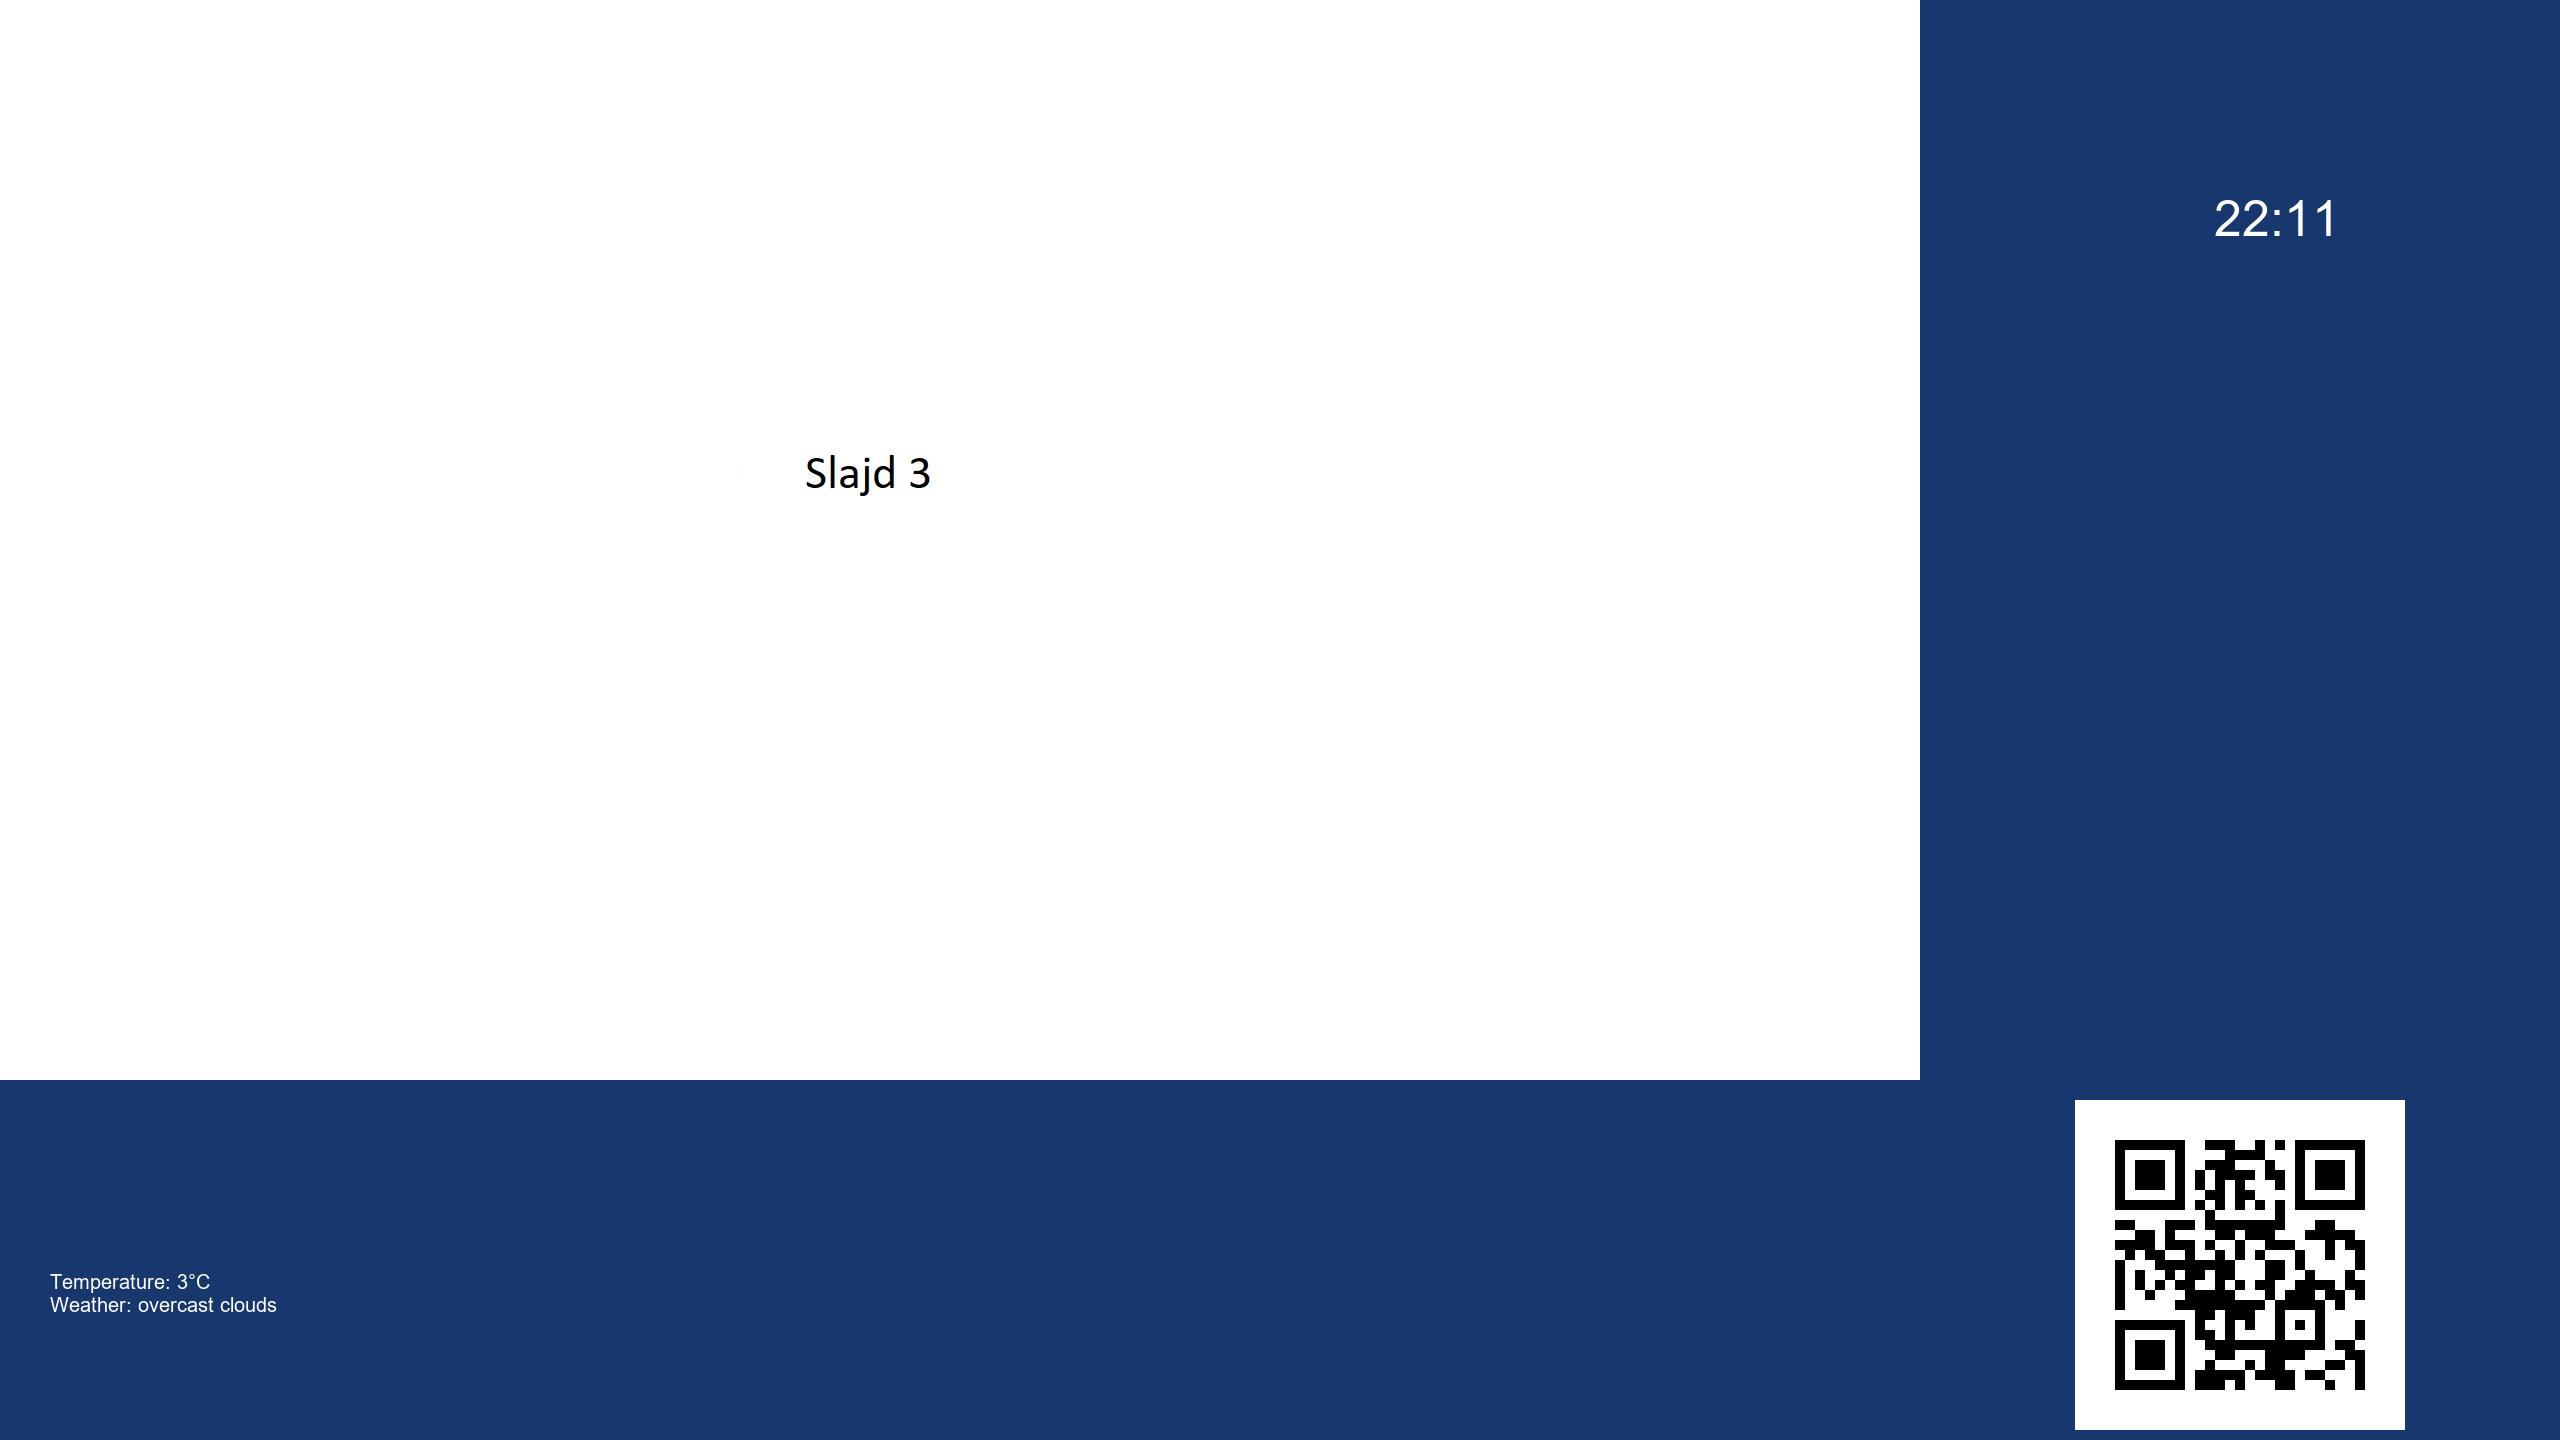
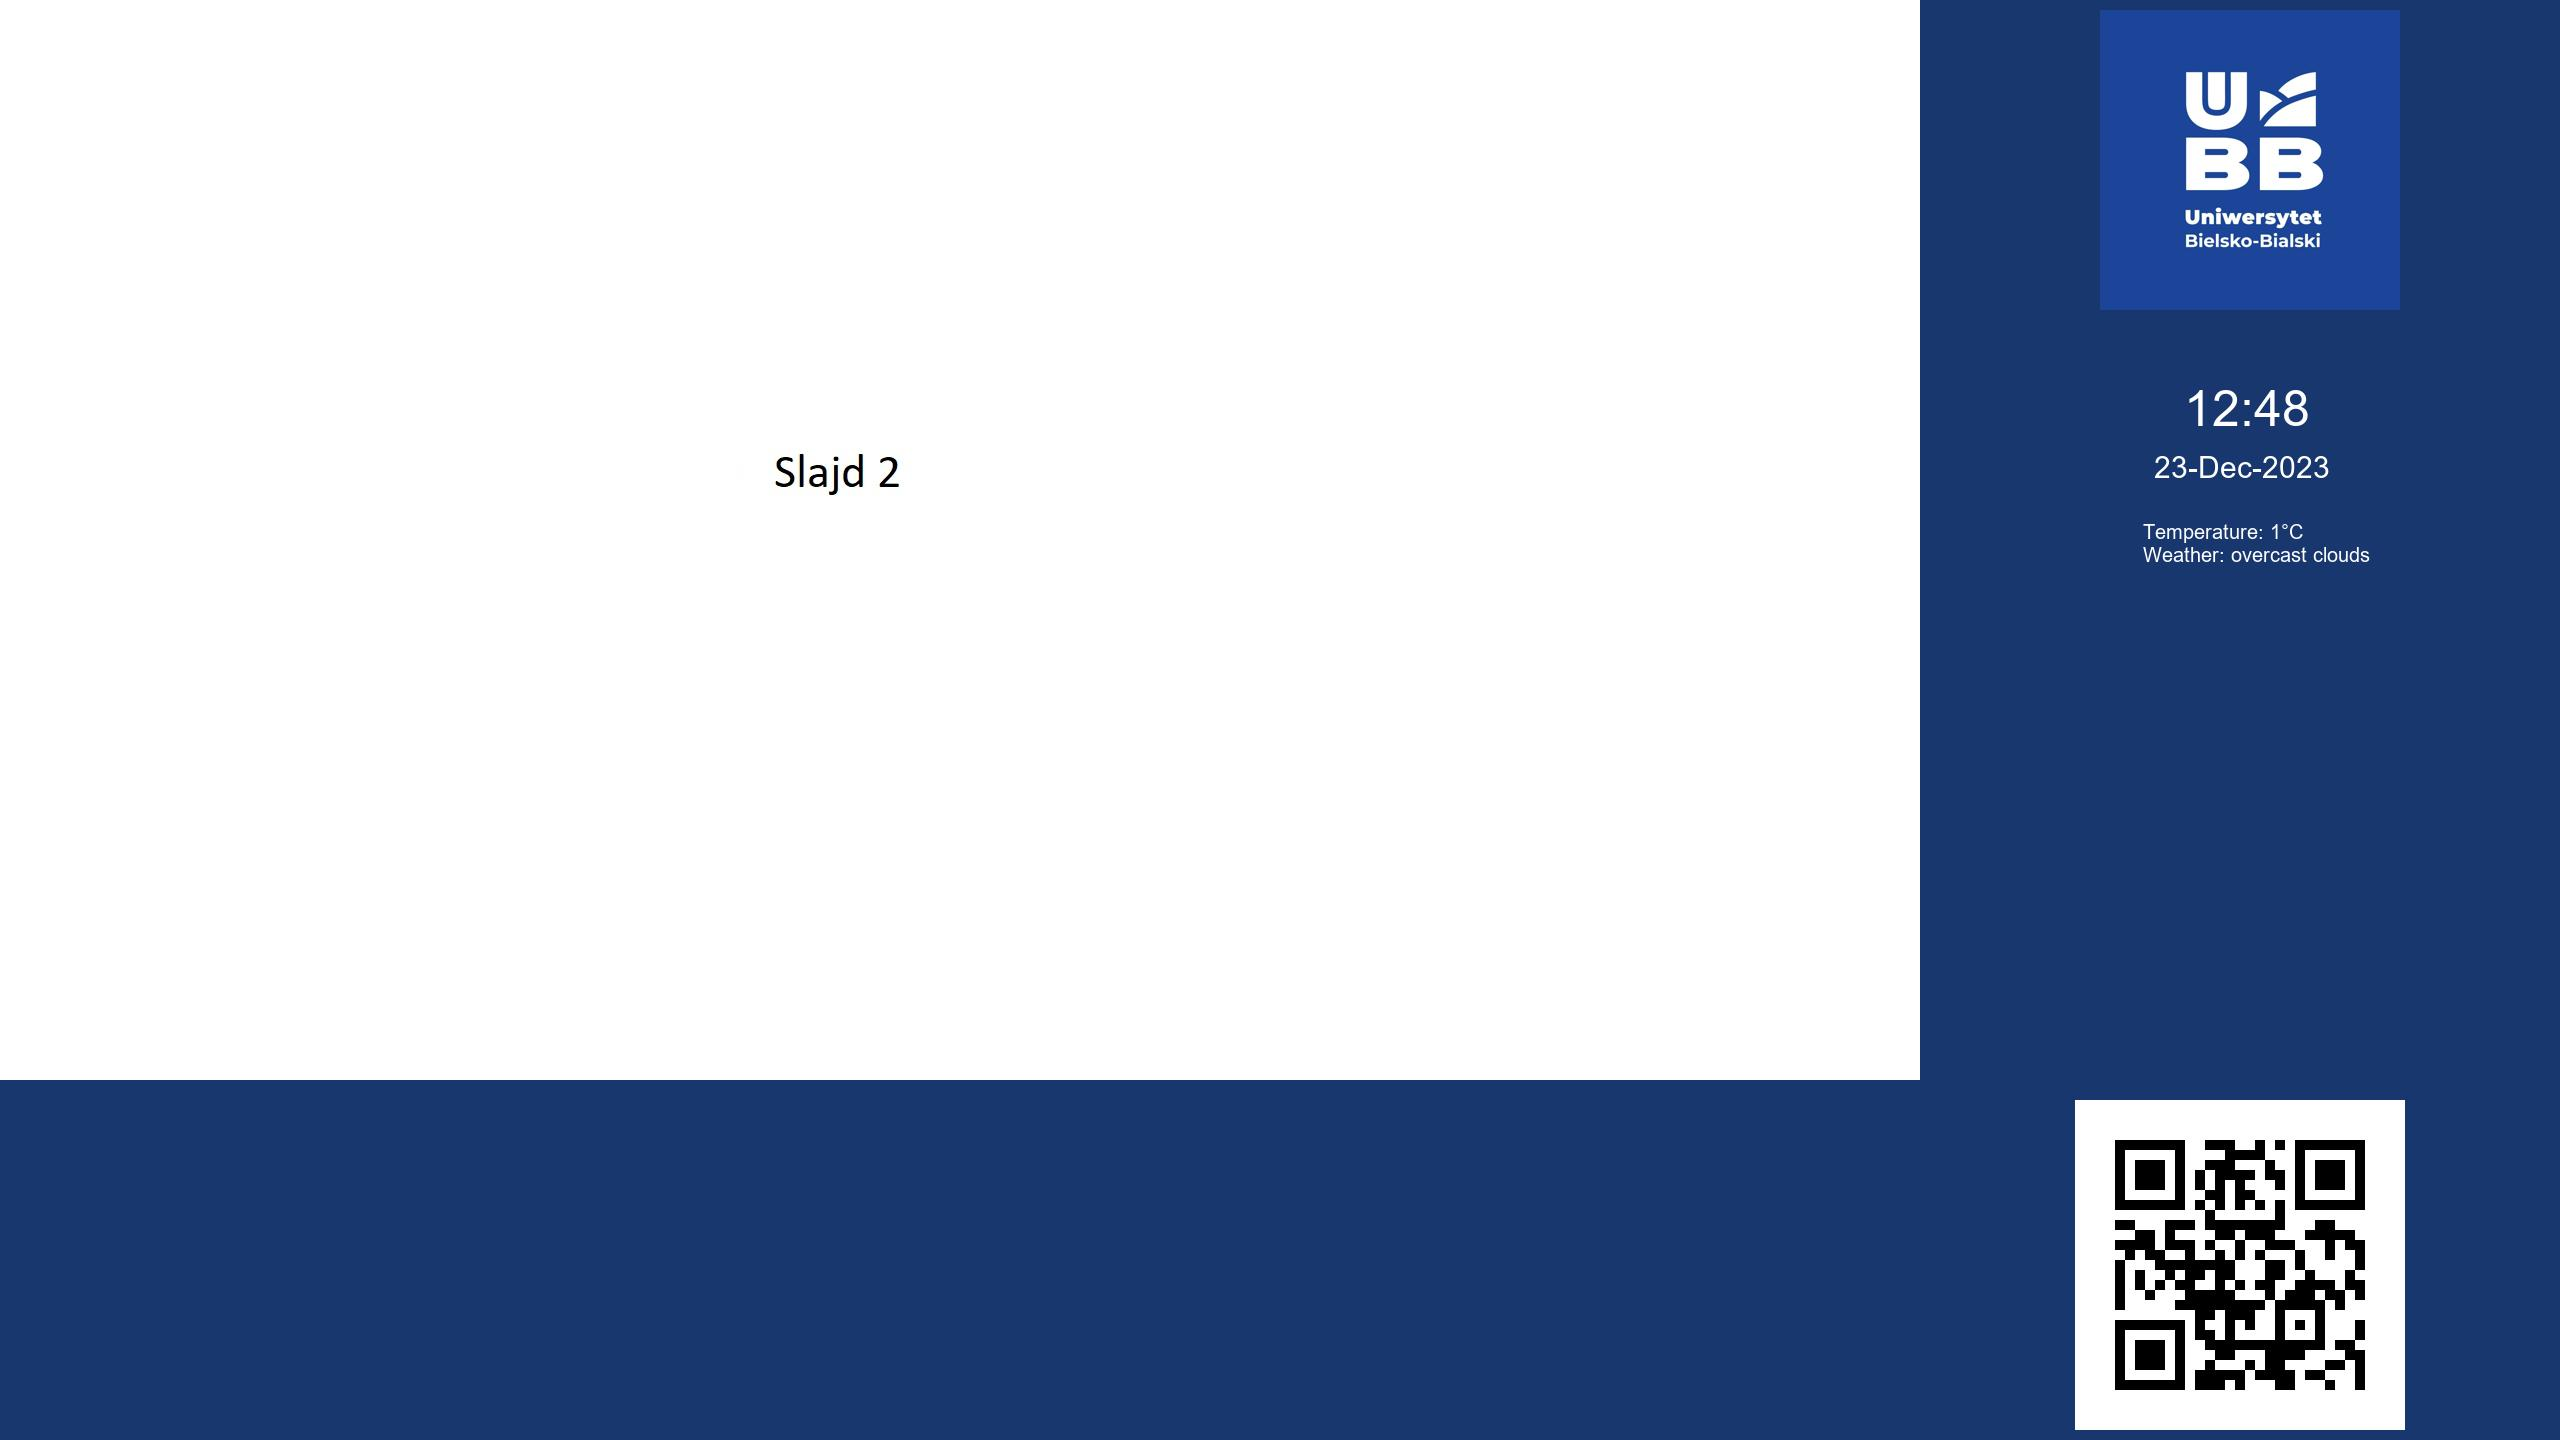
v1.0

diff --git a/project.py b/project.py
@@ -77,15 +77,12 @@ def display_image(file_path):
     draw.rectangle([(0, image.height), (screen.get_width(), screen.get_height())], fill=border_color)
 
     # Weather information from OpenWeatherMap API
-    weather_data = get_weather_data()
-    font = ImageFont.load_default()
-
-    # Font size
+    weather_text = get_weather_data()
     font_size = 20
     font = ImageFont.truetype("arial.ttf", font_size)
-
-    # Weather information
-    draw.text((50, image.height + border_height + 10), weather_data, font=font, fill="white")
+    weather_text_bbox = draw.textbbox((0, 0), weather_text, font=font)
+    weather_text_width, weather_text_height = weather_text_bbox[2] - weather_text_bbox[0], weather_text_bbox[3] - weather_text_bbox[1]
+    draw.text((screen.get_width() - weather_text_width - 190, border_height + 340), weather_text, font=font, fill="white")
 
     # Time display
     current_time = datetime.now().strftime("%H:%M")
@@ -93,7 +90,21 @@ def display_image(file_path):
     time_font = ImageFont.truetype("arial.ttf", time_font_size)
     text_bbox = draw.textbbox((0, 0), current_time, font=time_font)
     text_width, text_height = text_bbox[2] - text_bbox[0], text_bbox[3] - text_bbox[1]
-    draw.text((screen.get_width() - text_width - 220, border_height + 10), current_time, font=time_font, fill="white")
+    draw.text((screen.get_width() - text_width - 250, border_height + 200), current_time, font=time_font, fill="white")
+
+    # Date display
+    current_date = datetime.now().strftime("%d-%b-%Y")
+    date_font_size = 30
+    date_font = ImageFont.truetype("arial.ttf", date_font_size)
+    date_text_bbox = draw.textbbox((0, 0), current_date, font=date_font)
+    date_text_width, date_text_height = date_text_bbox[2] - date_text_bbox[0], date_text_bbox[3] - date_text_bbox[1]
+    draw.text((screen.get_width() - date_text_width - 230, border_height + 270), current_date, font=date_font, fill="white")
+    
+    # Logo display
+    logo_path = "logo/logo.jpg"
+    logo = Image.open(logo_path)
+    logo = logo.resize((300, 300))  
+    composite_image.paste(logo, (screen.get_width() - logo.width - 160, 10))
 
     qr_code_link = "https://plany.ath.bielsko.pl"
     qr_code = generate_qr_code(qr_code_link)
